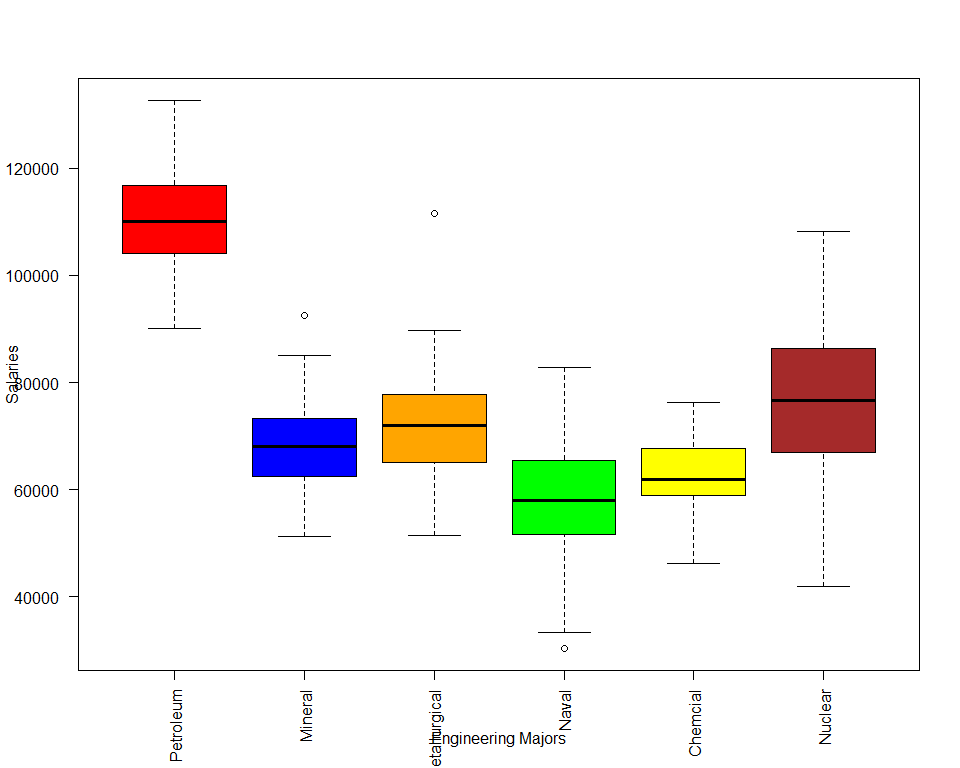
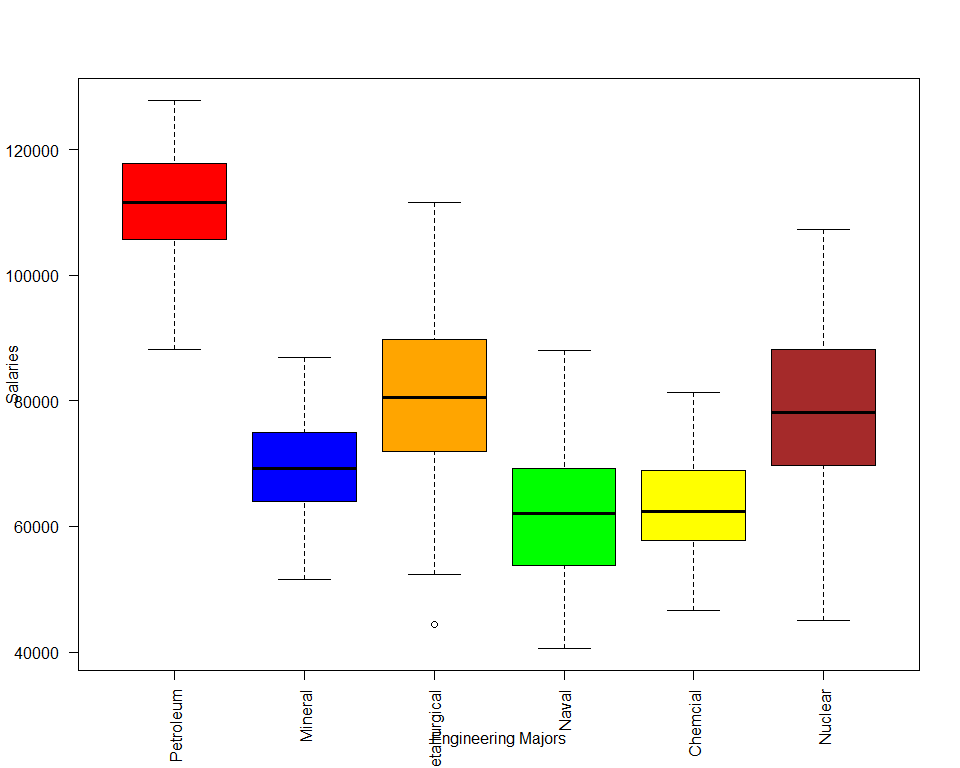
new calculate_unif function
calculate_unif function added so that mean as sd are both calculated out of the same distribution

diff --git a/RElizesBoxPlot/RElizes_Tidyverse_College.md b/RElizesBoxPlot/RElizes_Tidyverse_College.md
@@ -36,13 +36,26 @@ Define Functions
 I defined some functions to help me calculate the mean and the standard deviation of the data. Since we do not know the mean and the standard deviation for row of data, I had to create a rough calculation. Given the size, 25th percentile, and 75th percentile values, I used them to create a random set of numbers using the runif function. Since we do not know the minimum value and the maximum value of the data, I had to use the 25th and 75th percentile values as the them respectively. The biggest caveat in using these functions is that the mean and sd functions will generate random set of numbers. That means that the mean and standard deviation may not be accurate based on the random sample.
 
 ``` r
+unif<-vector()
+unif_par<-c(0,0,0)
+
+calculate_runif<-function(Size, minval, maxval) {
+  if (c(Size, minval, maxval)!=unif_par) {
+   unif<-runif(Size, minval, maxval)
+   unif_par<-c(Size, minval, maxval)
+   return(unif)
+  } else {
+    return(unif)
+  }
+}
+
 calculateMean <- function(Size, minval, maxval) {
-    calcvalue <- mean(runif(Size, minval, maxval))
+    calcvalue <- mean(calculate_runif(Size, minval, maxval))
     return(calcvalue)
 }
 
 calculateSD <- function(Size, minval, maxval) {
-    calcvalue <- sd(runif(Size, minval, maxval))
+    calcvalue <- sd(calculate_runif(Size, minval, maxval))
     return(calcvalue)
 }
 ```
@@ -11452,10 +11465,10 @@ PETROLEUM ENGINEERING
 125000
 </td>
 <td style="text-align:right;">
-109826.13
+111570.46
 </td>
 <td style="text-align:right;">
-8966.478
+9044.485
 </td>
 </tr>
 <tr>
@@ -11475,10 +11488,10 @@ MINING AND MINERAL ENGINEERING
 90000
 </td>
 <td style="text-align:right;">
-69712.40
+70501.41
 </td>
 <td style="text-align:right;">
-7513.078
+7497.427
 </td>
 </tr>
 <tr>
@@ -11498,10 +11511,10 @@ METALLURGICAL ENGINEERING
 105000
 </td>
 <td style="text-align:right;">
-72860.49
+79948.78
 </td>
 <td style="text-align:right;">
-9741.580
+12117.675
 </td>
 </tr>
 <tr>
@@ -11521,10 +11534,10 @@ NAVAL ARCHITECTURE AND MARINE ENGINEERING
 80000
 </td>
 <td style="text-align:right;">
-59246.09
+61441.81
 </td>
 <td style="text-align:right;">
-10668.593
+10044.599
 </td>
 </tr>
 <tr>
@@ -11544,10 +11557,10 @@ CHEMICAL ENGINEERING
 75000
 </td>
 <td style="text-align:right;">
-62965.93
+62221.36
 </td>
 <td style="text-align:right;">
-7275.617
+7180.343
 </td>
 </tr>
 <tr>
@@ -11567,10 +11580,10 @@ NUCLEAR ENGINEERING
 102000
 </td>
 <td style="text-align:right;">
-75733.24
+78908.75
 </td>
 <td style="text-align:right;">
-13476.805
+12976.398
 </td>
 </tr>
 </tbody>
@@ -11592,6 +11605,9 @@ boxplot(data, ylab = "Salaries", xlab="Engineering Majors",
 
 ![](RElizes_Tidyverse_College_files/figure-markdown_github/load-data-1.png)
 
+Multivariable plot
+------------------
+
 ``` r
 plot(data)
 ```
@@ -11603,7 +11619,7 @@ Rooms for Improvement
 
 Certainly there could be room for improvement.
 
--   Is it possible to create a function that uses the same runif function and be able to calculate the mean and standard deviation of the resulting data set? The mean and standard deviation would be more aligned.
+-   Is it possible to create a function that uses the same runif function and be able to calculate the mean and standard deviation of the resulting data set? The mean and standard deviation would be more aligned. **Function calculate\_runif added. This function returns a unif distribution. It checks the input parameters, if these are different from the most resent unif generated it returns a new unif, if they are the same it return the same unif. This way if mean and sd are called in sequence with the same parameters, they will both use the same unif distribution. This satisfies the improvement requested.**
 
 -   I was hoping to create a dual axis bar and line chart to show salaries on the first Y axis and unemployment on the second Y axis.
 
